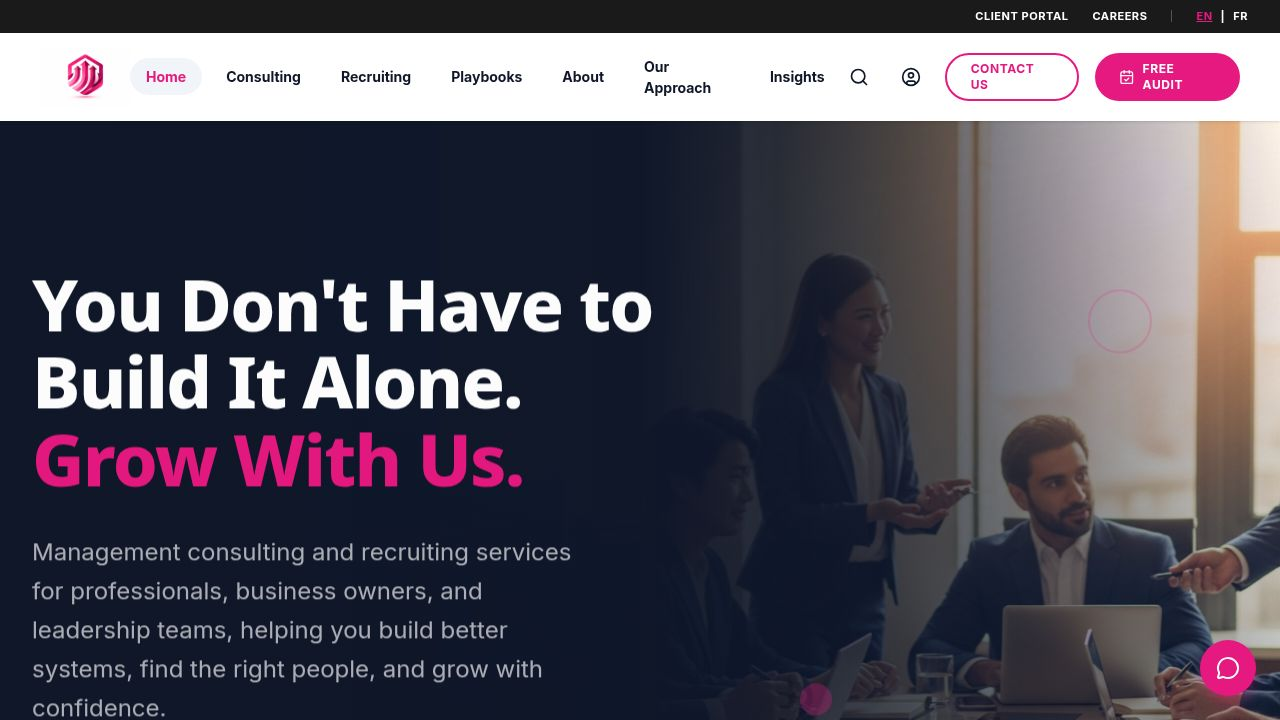
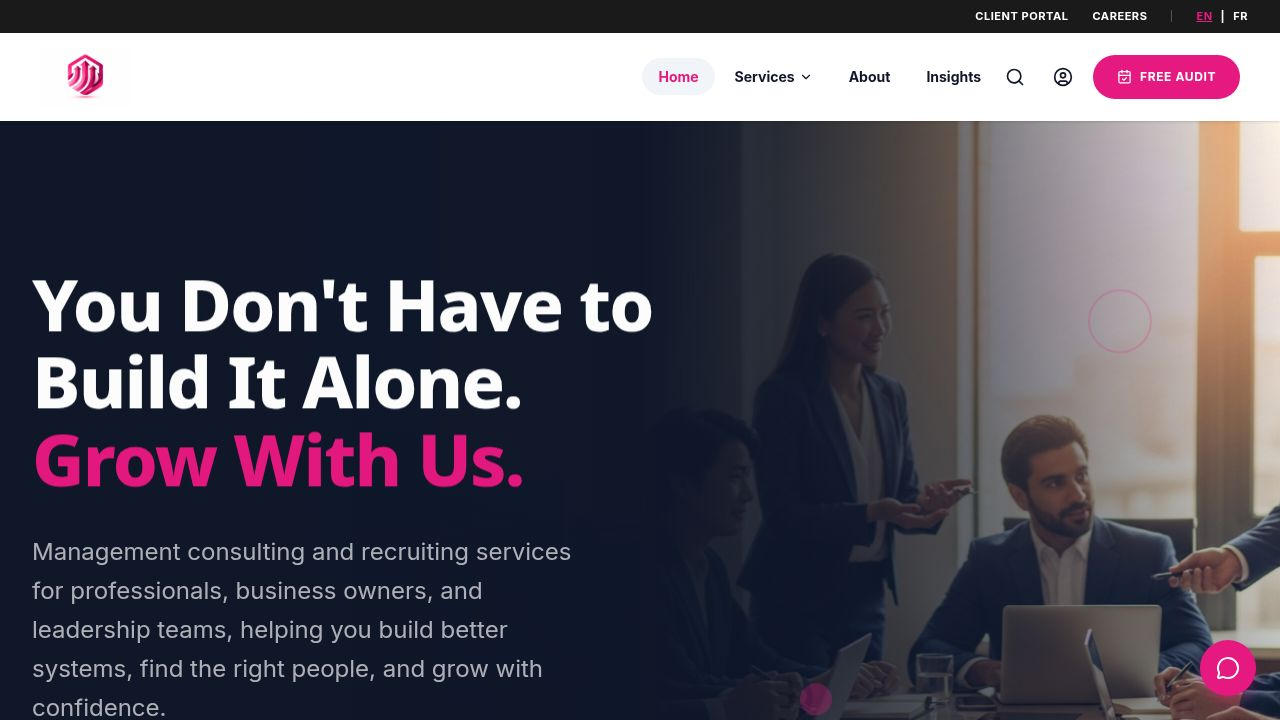
Streamline navigation by grouping services and simplifying links
Update the main navigation bar to reduce clutter by implementing a "Services" dropdown, consolidating links, and removing less critical items.

Replit-Commit-Author: Agent
Replit-Commit-Session-Id: dc6e2401-6f3b-40a9-93a2-bd8ee1fb60e2
Replit-Commit-Checkpoint-Type: full_checkpoint
Replit-Commit-Event-Id: bf5ad39d-3cef-4029-9f46-53bab6052a5d
Replit-Commit-Screenshot-Url: https://storage.googleapis.com/screenshot-production-us-central1/69669f3e-81d6-466f-8028-be37d6c6f5c1/dc6e2401-6f3b-40a9-93a2-bd8ee1fb60e2/OsCoM20
Replit-Helium-Checkpoint-Created: true

diff --git a/client/src/components/layout/Navbar.tsx b/client/src/components/layout/Navbar.tsx
@@ -1,6 +1,6 @@
 import { Link, useLocation } from "wouter";
 import { Menu, X, Search, ChevronDown, UserCircle, CalendarCheck } from "lucide-react";
-import { useState } from "react";
+import { useState, useRef, useEffect } from "react";
 import { cn } from "@/lib/utils";
 import { useLanguage } from "@/hooks/use-language";
 import logoImg from "@/assets/logo.png";
@@ -8,22 +8,37 @@ import logoImg from "@/assets/logo.png";
 
 export function Navbar() {
   const [isMobileMenuOpen, setIsMobileMenuOpen] = useState(false);
+  const [servicesOpen, setServicesOpen] = useState(false);
   const [location] = useLocation();
   const { language, setLanguage, t } = useLanguage();
+  const dropdownRef = useRef<HTMLDivElement>(null);
+
+  useEffect(() => {
+    function handleClickOutside(e: MouseEvent) {
+      if (dropdownRef.current && !dropdownRef.current.contains(e.target as Node)) {
+        setServicesOpen(false);
+      }
+    }
+    document.addEventListener("mousedown", handleClickOutside);
+    return () => document.removeEventListener("mousedown", handleClickOutside);
+  }, []);
+
+  const serviceLinks = [
+    { label: language === "en" ? "Management Consulting" : "Consultation en gestion", href: "/consulting", desc: language === "en" ? "Strategy, operations & growth" : "Stratégie, opérations et croissance" },
+    { label: language === "en" ? "Recruiting & Headhunting" : "Recrutement et chasse de têtes", href: "/recruiting", desc: language === "en" ? "Talent acquisition & placement" : "Acquisition de talents et placement" },
+    { label: "Playbooks", href: "/playbooks", desc: language === "en" ? "Templates, tools & frameworks" : "Modèles, outils et cadres" },
+  ];
 
   const navLinks = [
     { label: t("nav.home"), href: "/" },
-    { label: language === "en" ? "Consulting" : "Consultation", href: "/consulting" },
-    { label: language === "en" ? "Recruiting" : "Recrutement", href: "/recruiting" },
-    { label: "Playbooks", href: "/playbooks" },
     { label: t("nav.about"), href: "/about" },
-    { label: t("nav.approach"), href: "/approach" },
     { label: "Insights", href: "/insights" },
   ];
 
+  const isServicesActive = ["/consulting", "/recruiting", "/playbooks", "/services"].includes(location);
+
   return (
     <header className="w-full bg-white z-[60] sticky top-0 shadow-sm">
-      {/* Top Utility Nav */}
       <div className="bg-[#1a1a1a] text-white py-2 hidden lg:block">
         <div className="container mx-auto px-4 md:px-8 flex justify-end items-center gap-6 text-[11px] font-bold uppercase tracking-wider">
           <Link href="/portal" className="hover:text-accent transition-colors cursor-pointer">Client Portal</Link>
@@ -52,9 +67,57 @@ export function Navbar() {
             <img src={logoImg} alt="Performance Processes" className="h-[52px] lg:h-[60px] w-auto" />
         </Link>
 
-        {/* Desktop Navigation */}
-        <nav className="hidden lg:flex items-center gap-2">
-          {navLinks.map((link) => (
+        <nav className="hidden lg:flex items-center gap-1">
+          {navLinks.slice(0, 1).map((link) => (
+            <Link key={link.label} href={link.href}
+                className={cn(
+                  "text-[14px] font-bold text-primary hover:text-accent transition-all px-4 py-2 rounded-full",
+                  location === link.href ? "bg-secondary text-accent" : "hover:bg-secondary"
+                )}
+                data-testid={`link-nav-${link.href.replace(/\//g, '') || 'home'}`}
+              >
+                {link.label}
+            </Link>
+          ))}
+
+          <div className="relative" ref={dropdownRef}>
+            <button
+              onClick={() => setServicesOpen(!servicesOpen)}
+              onMouseEnter={() => setServicesOpen(true)}
+              className={cn(
+                "text-[14px] font-bold text-primary hover:text-accent transition-all px-4 py-2 rounded-full flex items-center gap-1",
+                isServicesActive ? "bg-secondary text-accent" : "hover:bg-secondary"
+              )}
+              data-testid="link-nav-services"
+            >
+              {language === "en" ? "Services" : "Services"}
+              <ChevronDown size={14} className={cn("transition-transform", servicesOpen ? "rotate-180" : "")} />
+            </button>
+            {servicesOpen && (
+              <div 
+                className="absolute top-full left-1/2 -translate-x-1/2 mt-2 w-[340px] bg-white rounded-2xl shadow-xl border border-border/50 p-3 z-50"
+                onMouseLeave={() => setServicesOpen(false)}
+              >
+                {serviceLinks.map((link) => (
+                  <Link
+                    key={link.href}
+                    href={link.href}
+                    className={cn(
+                      "flex flex-col gap-0.5 px-4 py-3 rounded-xl transition-all",
+                      location === link.href ? "bg-accent/5 text-accent" : "hover:bg-secondary"
+                    )}
+                    onClick={() => setServicesOpen(false)}
+                    data-testid={`link-nav-${link.href.replace(/\//g, '')}`}
+                  >
+                    <span className="text-sm font-bold">{link.label}</span>
+                    <span className="text-xs text-muted-foreground">{link.desc}</span>
+                  </Link>
+                ))}
+              </div>
+            )}
+          </div>
+
+          {navLinks.slice(1).map((link) => (
             <Link key={link.label} href={link.href}
                 className={cn(
                   "text-[14px] font-bold text-primary hover:text-accent transition-all px-4 py-2 rounded-full",
@@ -67,7 +130,7 @@ export function Navbar() {
           ))}
         </nav>
 
-        <div className="flex items-center gap-4">
+        <div className="flex items-center gap-3">
           <button 
             className="p-2 hover:bg-secondary rounded-full transition-colors hidden md:block"
             onClick={() => {
@@ -83,11 +146,8 @@ export function Navbar() {
           <Link href="/portal" className="p-2 hover:bg-secondary rounded-full transition-colors hidden md:block" data-testid="link-portal-signin">
             <UserCircle size={20} className="text-primary" />
           </Link>
-          <Link href="/contact" className="hidden md:inline-flex items-center justify-center rounded-full border-2 border-accent text-accent hover:bg-accent hover:text-white transition-all font-bold px-6 h-12 uppercase tracking-wider text-xs" data-testid="link-contact-nav">
-              {t("nav.contact")}
-          </Link>
-          <Link href="/free-audit" className="hidden md:inline-flex items-center justify-center gap-2 rounded-full bg-accent text-white hover:bg-primary transition-all font-bold px-6 h-12 uppercase tracking-wider text-xs" data-testid="link-free-audit-nav">
-              <CalendarCheck size={16} />
+          <Link href="/free-audit" className="hidden md:inline-flex items-center justify-center gap-2 rounded-full bg-accent text-white hover:bg-primary transition-all font-bold px-6 h-11 uppercase tracking-wider text-xs" data-testid="link-free-audit-nav">
+              <CalendarCheck size={15} />
               {language === "en" ? "Free Audit" : "Audit gratuit"}
           </Link>
           <button
@@ -99,7 +159,6 @@ export function Navbar() {
         </div>
       </div>
 
-      {/* Mobile Navigation */}
       {isMobileMenuOpen && (
         <div className="lg:hidden fixed inset-0 top-0 bg-white z-[100] flex flex-col animate-in fade-in slide-in-from-right duration-300">
           <div className="p-4 flex justify-between items-center border-b h-20">
@@ -108,21 +167,71 @@ export function Navbar() {
              </div>
              <button onClick={() => setIsMobileMenuOpen(false)} className="p-2 hover:bg-secondary rounded-full transition-colors"><X size={32} /></button>
           </div>
-          <div className="flex flex-col p-8 gap-6 overflow-y-auto pb-24">
-            {navLinks.map((link) => (
-              <Link key={link.label} href={link.href}
-                  className={cn(
-                    "text-xl font-bold py-4 border-b border-border flex justify-between items-center",
-                    location === link.href ? "text-accent border-accent" : "text-primary"
-                  )}
-                  onClick={() => setIsMobileMenuOpen(false)}
-                  data-testid={`link-mobile-nav-${link.href.replace(/\//g, '') || 'home'}`}
-                >
-                  {link.label}
-                  <ChevronDown size={24} className="-rotate-90" />
-              </Link>
-            ))}
-            
+          <div className="flex flex-col p-8 gap-4 overflow-y-auto pb-24">
+            <Link href="/"
+                className={cn(
+                  "text-xl font-bold py-4 border-b border-border flex justify-between items-center",
+                  location === "/" ? "text-accent border-accent" : "text-primary"
+                )}
+                onClick={() => setIsMobileMenuOpen(false)}
+                data-testid="link-mobile-nav-home"
+              >
+                {t("nav.home")}
+                <ChevronDown size={24} className="-rotate-90" />
+            </Link>
+
+            <div className="border-b border-border pb-2">
+              <div className="text-xs font-bold uppercase tracking-widest text-muted-foreground mb-3 px-1">
+                {language === "en" ? "Services" : "Services"}
+              </div>
+              {serviceLinks.map((link) => (
+                <Link key={link.href} href={link.href}
+                    className={cn(
+                      "text-lg font-bold py-3 px-1 flex justify-between items-center",
+                      location === link.href ? "text-accent" : "text-primary"
+                    )}
+                    onClick={() => setIsMobileMenuOpen(false)}
+                    data-testid={`link-mobile-nav-${link.href.replace(/\//g, '')}`}
+                  >
+                    {link.label}
+                    <ChevronDown size={20} className="-rotate-90" />
+                </Link>
+              ))}
+            </div>
+
+            <Link href="/about"
+                className={cn(
+                  "text-xl font-bold py-4 border-b border-border flex justify-between items-center",
+                  location === "/about" ? "text-accent border-accent" : "text-primary"
+                )}
+                onClick={() => setIsMobileMenuOpen(false)}
+                data-testid="link-mobile-nav-about"
+              >
+                {t("nav.about")}
+                <ChevronDown size={24} className="-rotate-90" />
+            </Link>
+            <Link href="/insights"
+                className={cn(
+                  "text-xl font-bold py-4 border-b border-border flex justify-between items-center",
+                  location === "/insights" ? "text-accent border-accent" : "text-primary"
+                )}
+                onClick={() => setIsMobileMenuOpen(false)}
+                data-testid="link-mobile-nav-insights"
+              >
+                Insights
+                <ChevronDown size={24} className="-rotate-90" />
+            </Link>
+            <Link href="/contact"
+                className={cn(
+                  "text-xl font-bold py-4 border-b border-border flex justify-between items-center",
+                  location === "/contact" ? "text-accent border-accent" : "text-primary"
+                )}
+                onClick={() => setIsMobileMenuOpen(false)}
+                data-testid="link-mobile-nav-contact"
+              >
+                {t("nav.contact")}
+                <ChevronDown size={24} className="-rotate-90" />
+            </Link>
             <Link href="/portal"
                 className={cn(
                   "text-xl font-bold py-4 border-b border-border flex justify-between items-center",
@@ -133,17 +242,8 @@ export function Navbar() {
                 Client Portal
                 <ChevronDown size={24} className="-rotate-90" />
             </Link>
-            <Link href="/careers"
-                className={cn(
-                  "text-xl font-bold py-4 border-b border-border flex justify-between items-center",
-                  location === "/careers" ? "text-accent border-accent" : "text-primary"
-                )}
-                onClick={() => setIsMobileMenuOpen(false)}
-              >
-                Careers
-                <ChevronDown size={24} className="-rotate-90" />
-            </Link>
-            <div className="flex gap-4 pt-4 border-b border-border pb-4">
+
+            <div className="flex gap-4 pt-2 border-b border-border pb-4">
               <button onClick={() => {setLanguage("en"); setIsMobileMenuOpen(false);}} className={cn("font-bold", language === "en" ? "text-accent underline" : "text-primary")}>EN</button>
               <span className="text-primary">|</span>
               <button onClick={() => {setLanguage("fr"); setIsMobileMenuOpen(false);}} className={cn("font-bold", language === "fr" ? "text-accent underline" : "text-primary")}>FR</button>
@@ -152,9 +252,6 @@ export function Navbar() {
             <Link href="/free-audit" className="w-full flex items-center justify-center gap-3 rounded-full bg-accent text-white py-5 text-lg font-bold uppercase tracking-widest mt-4 shadow-lg shadow-accent/20" onClick={() => setIsMobileMenuOpen(false)} data-testid="link-free-audit-mobile">
                 <CalendarCheck size={20} />
                 {language === "en" ? "Free Audit" : "Audit gratuit"}
-            </Link>
-            <Link href="/contact" className="w-full flex items-center justify-center rounded-full border-2 border-accent text-accent hover:bg-accent hover:text-white py-5 text-lg font-bold uppercase tracking-widest" onClick={() => setIsMobileMenuOpen(false)} data-testid="link-contact-mobile">
-                {t("nav.contact")}
             </Link>
           </div>
         </div>
